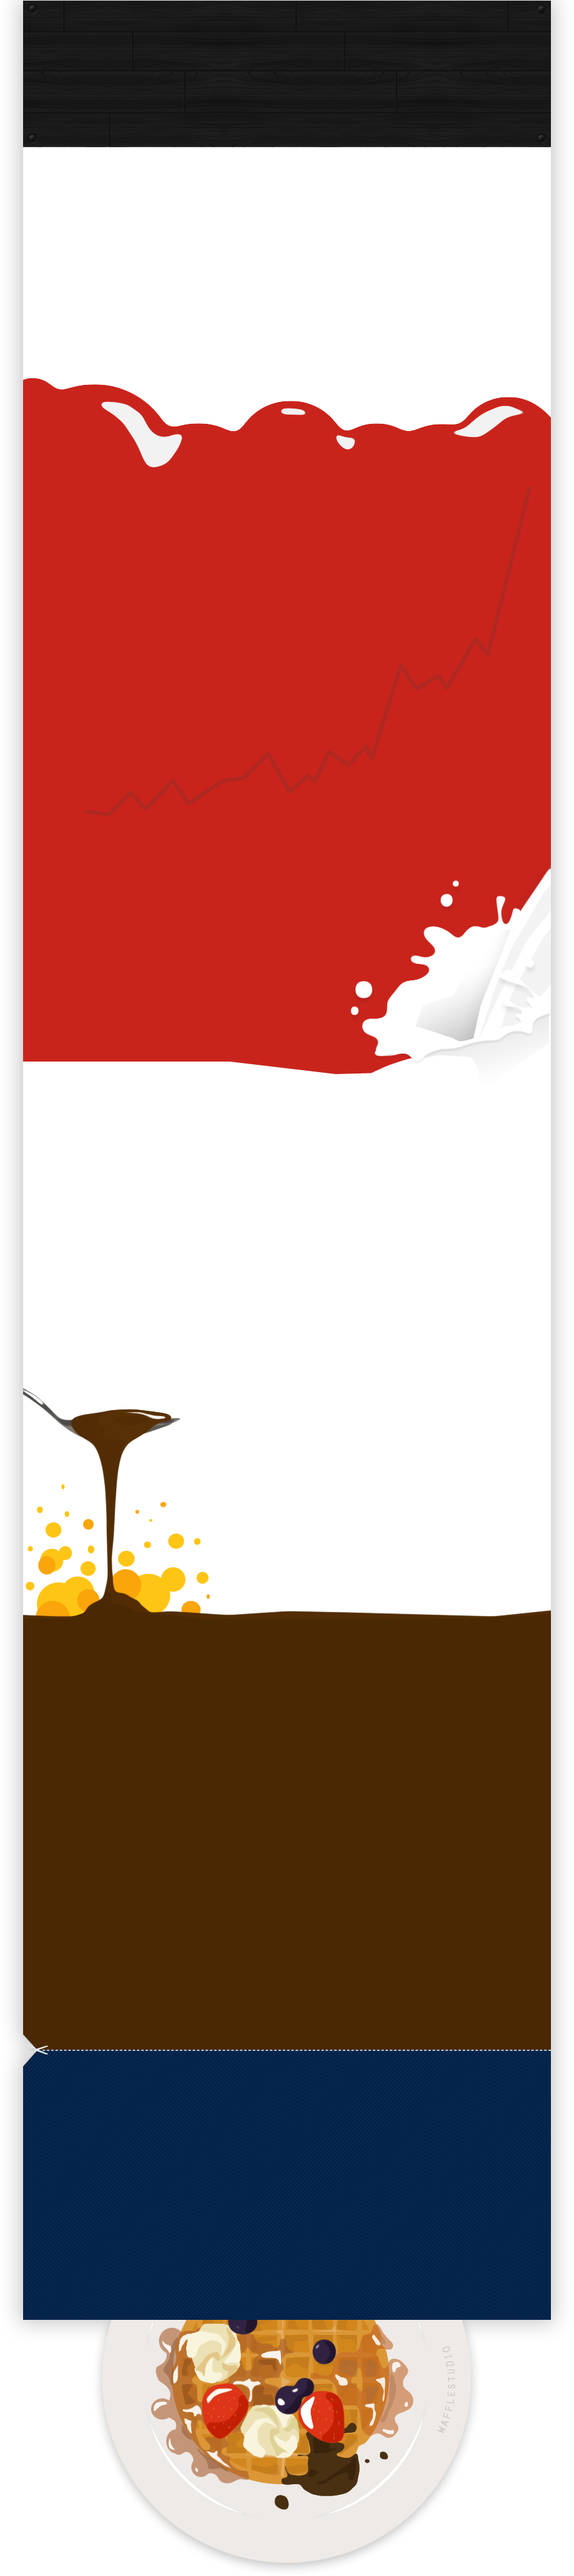
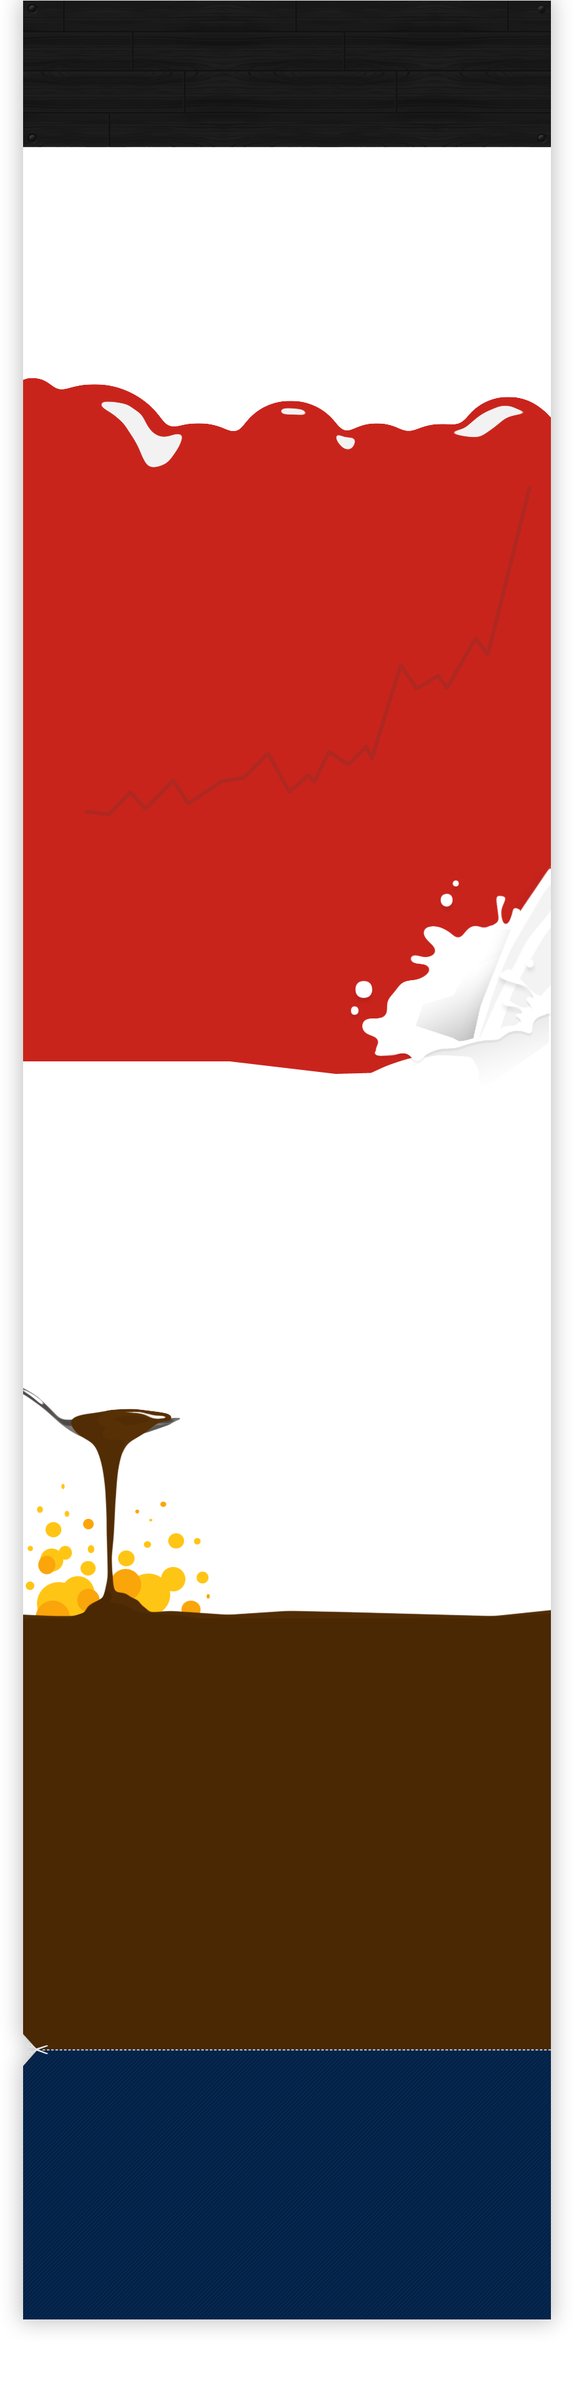
parallax movement on footer image
git-svn-id: svn+ssh://wafflestudio.net/home/thefron/svn/waffle@52 58158ecd-1a78-46b5-9736-0f4b7c5de568

diff --git a/public/stylesheets/style.css b/public/stylesheets/style.css
@@ -70,8 +70,8 @@ nav.navigation li a {
 }
 #home nav.navigation {
 	top: 48px;
-	border: 1px solid rgba(255,255,255,0.15);
-	background: rgba(205,205,205,0.06);
+	border: 1px solid #434343;
+	background: url(/images/backgrounds/white_bg.png);
 }
 #home nav.navigation li a {
 	color: #6d6d6d;
@@ -106,7 +106,8 @@ nav.navigation li a {
 	top: 0px;
 }
 .tweet {
-  margin: 1em 0;
+	padding: 5px 0px;
+	border-top: 1px dashed #ccc;
   color: #555;
 	line-height: 1.2em;
 }
@@ -206,8 +207,8 @@ a.nivo-prevNav {
 }
 #about_us nav.navigation {
 	top: 150px;
-	border: 1px solid rgba(78,65,51,0.34);
-	background: rgba(205,205,205,0.06);
+	border: 1px solid #9d3329;
+	background: url(/images/backgrounds/white_bg.png);
 }
 #about_us nav.navigation li a {
 	color: #272727;
@@ -268,8 +269,8 @@ a.nivo-prevNav {
 }
 #members nav.navigation {
 	top: 150px;
-	border: 1px solid rgba(78,65,51,0.34);
-	background: rgba(205,205,205,0.06);
+	border: 1px solid #bfbbb6;
+	background: url(/images/backgrounds/white_bg.png);
 }
 #members nav.navigation li a {
 	color: #272727;
@@ -314,11 +315,13 @@ a.nivo-prevNav {
   /*border: 1px solid #fcc;*/
 }
 .member.disabled {
+/*
   opacity: 0.4;
-  filter: alpha(opacity=40); /* IE lt 8 */
-  -ms-filter: "alpha(opacity=40)"; /* IE 8 */
-  -khtml-opacity: .40; /* Safari 1.x */
-  -moz-opacity: .40; /* FF lt 1.5, Netscape */
+  filter: alpha(opacity=40);
+	-ms-filter: “progid:DXImageTransform.Microsoft.Alpha(Opacity=40)”
+  -khtml-opacity: .40;
+  -moz-opacity: .40;
+*/
 }
 .member_thumb {
   position: absolute;
@@ -469,7 +472,7 @@ a.nivo-prevNav {
   left: 5px;
   line-height: 15px;
   text-align: center;
-  background: rgba(0,0,0,0.7);
+	background: url(/images/backgrounds/black_bg.png);
   color: white;
   font-size: 11px;
 }
@@ -502,7 +505,7 @@ a.nivo-prevNav {
 /*project section start*/
 #projects {
 	margin-top: 320px;
-	background: url(/images/backgrounds/dev_process.png) no-repeat 50% 410px;
+	/*background: url(/images/backgrounds/dev_process.png) no-repeat 50% 410px;*/
 }
 #projects h1 {
 	width: 281px;
@@ -515,8 +518,8 @@ a.nivo-prevNav {
 }
 #projects nav.navigation {
 	top: 20px;
-	border: 1px solid rgba(78,65,51,0.34);
-	background: rgba(205,205,205,0.06);
+	border: 1px solid #4e361a;
+	background: url(/images/backgrounds/white_bg.png);
 }
 #projects nav.navigation li a {
 	color: #7a604c;
@@ -610,7 +613,7 @@ a.nivo-prevNav {
   left: 5px;
   line-height: 15px;
   text-align: center;
-  background: rgba(0,0,0,0.7);
+	background: url(/images/backgrounds/black_bg.png);
   color: white;
   font-size: 11px;
 }
@@ -643,8 +646,7 @@ a.nivo-prevNav {
 /*contact section start*/
 #contact {
 	margin-top: 55px;
-	padding-bottom: 450px;
-	height: 400px;
+	height: 389px;
 }
 #contact h1 {
 	width: 281px;
@@ -668,8 +670,8 @@ a.nivo-prevNav {
 }
 #contact nav.navigation {
 	top: 150px;
-	border: 1px solid rgba(78,65,51,0.34);
-	background: rgba(205,205,205,0.06);
+	border: 1px solid #233245;
+	background: url(/images/backgrounds/white_bg.png);
 }
 #contact  nav.navigation li a {
 	color: #596b79;
@@ -709,7 +711,7 @@ form .text_input_wrapper {
   height: 30px;
   font-size: 18px;
   background: #021732;
-  border: 1px solid rgba(177,177,177,0.29);
+  border: 1px solid #344356;
   -webkit-border-radius: 2px;
   -moz-border-radius: 2px;
   border-radius: 2px;
@@ -717,7 +719,7 @@ form .text_input_wrapper {
 form .text_area_wrapper {
   width: 265px;
   background: #021732;
-  border: 1px solid rgba(177,177,177,0.29);
+  border: 1px solid #344356;
   -webkit-border-radius: 2px;
   -moz-border-radius: 2px;
   border-radius: 2px;
@@ -765,8 +767,8 @@ form textarea {
 }
 /*contact section end*/
 footer {
-  margin-top: -8px;
   height: 425px;
+	background: url(/images/backgrounds/waffle.png) no-repeat center top;
 }
 /*image loader*/
 #invisible {

diff --git a/public/javascripts/application.js b/public/javascripts/application.js
@@ -14,6 +14,24 @@ $(function(){
 	}, function(){
 		$(this).removeClass('hover');
 	});
+	var footer = $('footer');
+	var Fmin = footer.height()/2;
+	var newPos;
+	$(window).bind('scroll', function(){
+		top_pos = footer.offset().top - $(window).height();
+		bottom_pos = $(document).height()-$(window).height()
+		windowTop = $(window).scrollTop();
+		if(windowTop >= top_pos && windowTop <= bottom_pos){
+			ratio = parseFloat((windowTop-top_pos)/(bottom_pos - top_pos));
+			newPos = Fmin+(footer.height()-Fmin)*ratio;
+		}
+		else{
+			newPos = Fmin
+		}
+		$('footer').css({
+			'background-position': '0 '+(-footer.height()+newPos)+'px'
+		});
+	});
 });
 
 function init_navigation(){
@@ -75,9 +93,8 @@ function init_carousel(){
   var control = $('.nivo-controlNav');
   control.css('margin-left', -control.width()/2);
 }
-function slider_action(e, type, value){
+function slider_action(type, value){
 	//top section 카로슬 개체 클릭 시 동작 지정
-	e.preventDefault();
   switch(type){
     case 'url': 
       window.open(value);
@@ -298,8 +315,17 @@ function init_members(){
       members.filter('.'+tag_str).addClass('on');
       member_tags.not(tag[0]).removeClass('on');
       tag.addClass('on');
+			members.filter('.disabled').animate({
+				opacity: 0.3
+			}, 'fast');
+			members.not('.disabled').animate({
+				opacity: 1
+			}, 'fast');
     }
     else{
+			members.filter('.disabled').animate({
+				opacity: 1
+			}, 'fast');
       members.removeClass('disabled on');
       tag.removeClass('on');
     }

diff --git a/public/stylesheets/slider.css b/public/stylesheets/slider.css
@@ -16,7 +16,7 @@
 	left: 0;
 	color: white;
 	/*background: rgba(118,77,31,0.58);*/
-	background: rgba(0,0,0,0.7);
+	background: url(/images/backgrounds/black_bg.png);
 	width: 100%;
 }
 .thefron_img_caption .name {
